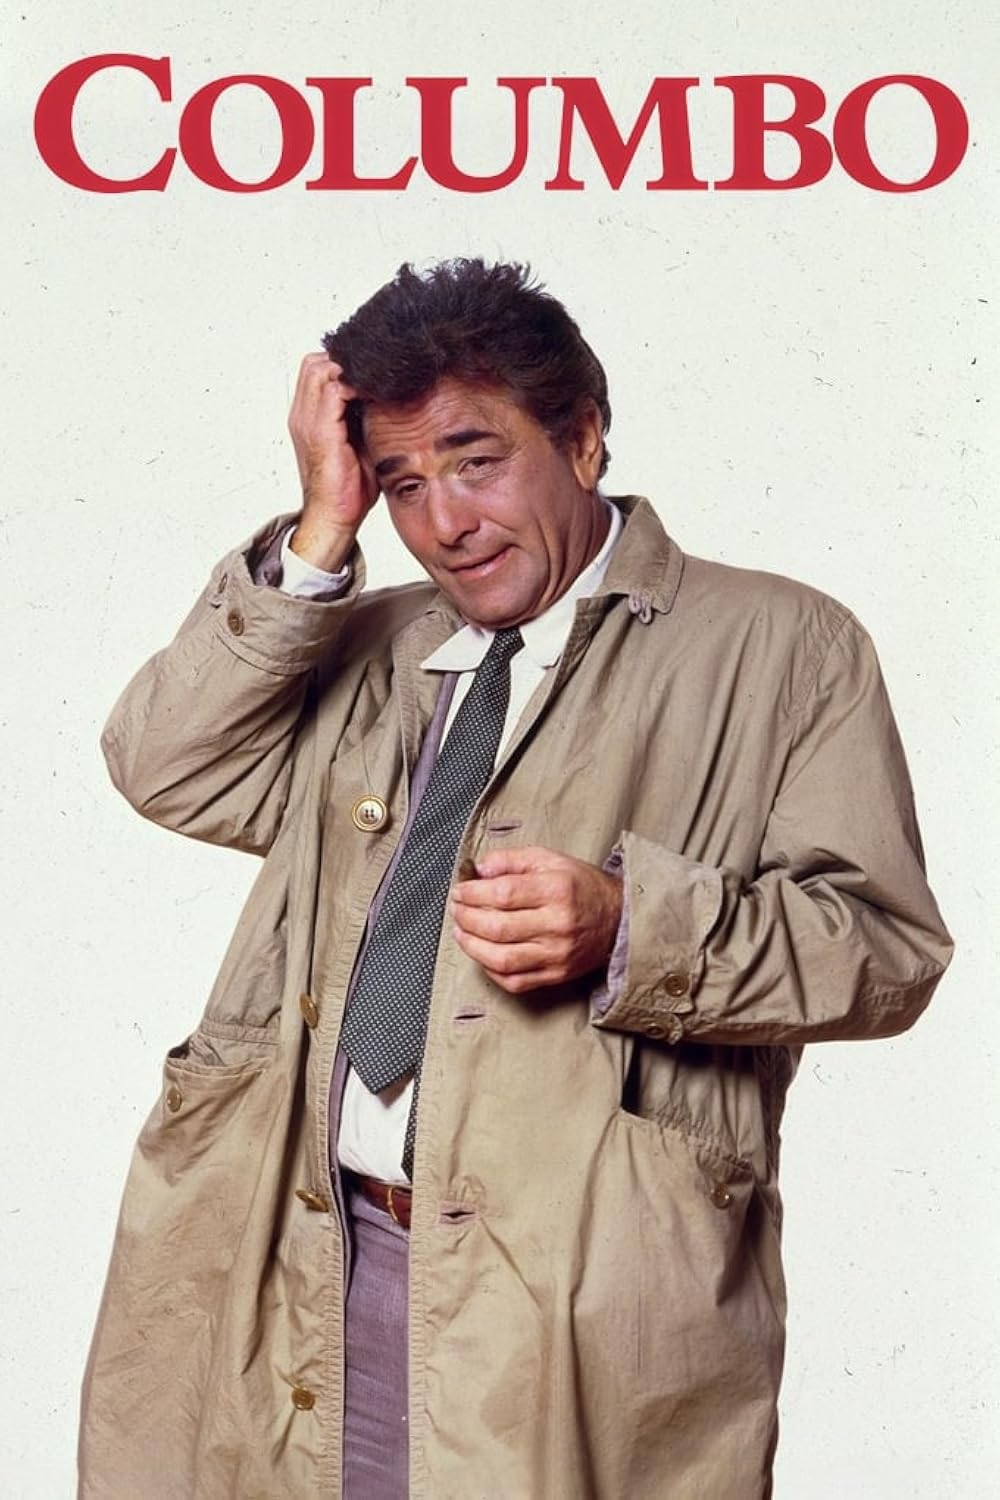
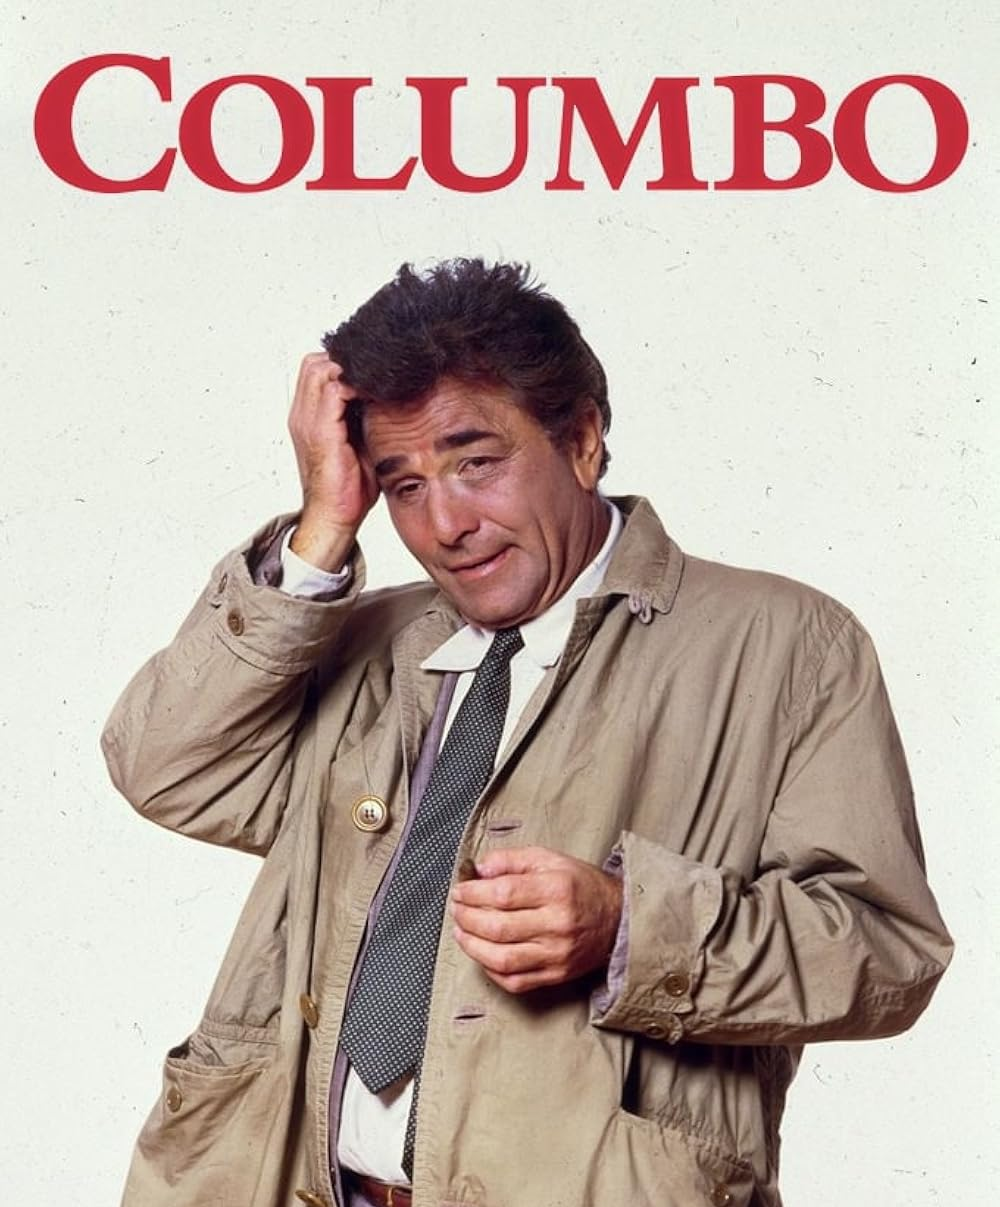
Bigger columbo images

diff --git a/report.md b/report.md
@@ -509,12 +509,21 @@ Now that we know this, let's dive into the ratings themselves, and plot them ove
 
 {% include RatingsWithErrorBars.html %}
 
-<div style="text-align: center;">
-  <img src="RatingsPikachuOh.png" alt="Pikachu Ratings" width="400" />
-</div>
+<table>
+  <tr>
+    <td>
+      <img src="RatingsPikachuOh.png" alt="Image" width="700" />
+    </td>
+    <td style="border: none;">
+      <strong> What a Surprising Result!! Even detective pikachu is thrown off guard.</strong> From 1913 on, the weighted movie rating is constantly better than the average. Even more than that, it's outside the error-bars ! This can only mean one thing. The rating of a movie, and the number of votes is not totally uncorrelated. The year 1973 seems to be the best year in terms of weighted rating, but just any normal year in mean ratings, there must be a reason!
+    </td>
+  </tr>
+</table>
 
 
-**What a Surprising Result!! Even detective pikachu is thrown off guard**. From 1913 on, the weighted movie rating is constantly better than the average. Even more than that, it's outside the error-bars ! This can only mean one thing. The rating of a movie, and the number of votes is not totally uncorrelated. The year 1973 seems to be the best year in terms of weighted rating, but just any normal year in mean ratings, there must be a reason!
+
+
+
 
 <table>
   <tr>
@@ -565,7 +574,7 @@ Even though they do not have that many votes individually, together they still a
 <table>
   <tr>
     <td style="border: none;">
-      <img src="RatingsColumbo.png" alt="Image" width="500" />
+      <img src="RatingsColumbo.png" alt="Image" width="700" />
     </td>
     <td style="border: none;">
 A familiar face jumps in, telling us that we should click on the 2006 label on the right to turn off the movies of that year, and dive deep into a more precise comparison between 1949 and 1973. We would like to understand why 1949 has a higher spearman coefficient. Looking at the points the 1973 seem sparser, and 1949 seems practically linear, so why is the pearson coefficient so low ? Columbo's sharp mind answers before we could even think about it: Because of the log scale. Here the correlation is not linear, but logarithmic, that's why the spearman coefficient is higher, as it captures the monotonic increase of the logarithm. 
@@ -588,7 +597,7 @@ He probably knows if we can see the decline of the 3 most popular themes of the 
 To analyze these genres over time, he advises us to plot them over the periods we defined before and as wise as always he tells us to also plot the weighted rating over all themes, or we wouldn't be able to do any comparisons. 
     </td>
     <td style="border: none;">
-      <img src="RatingsHercule.png" alt="Image" width="700" />
+      <img src="RatingsHercule.png" alt="Image" width="1000" />
     </td>
   </tr>
 </table>
